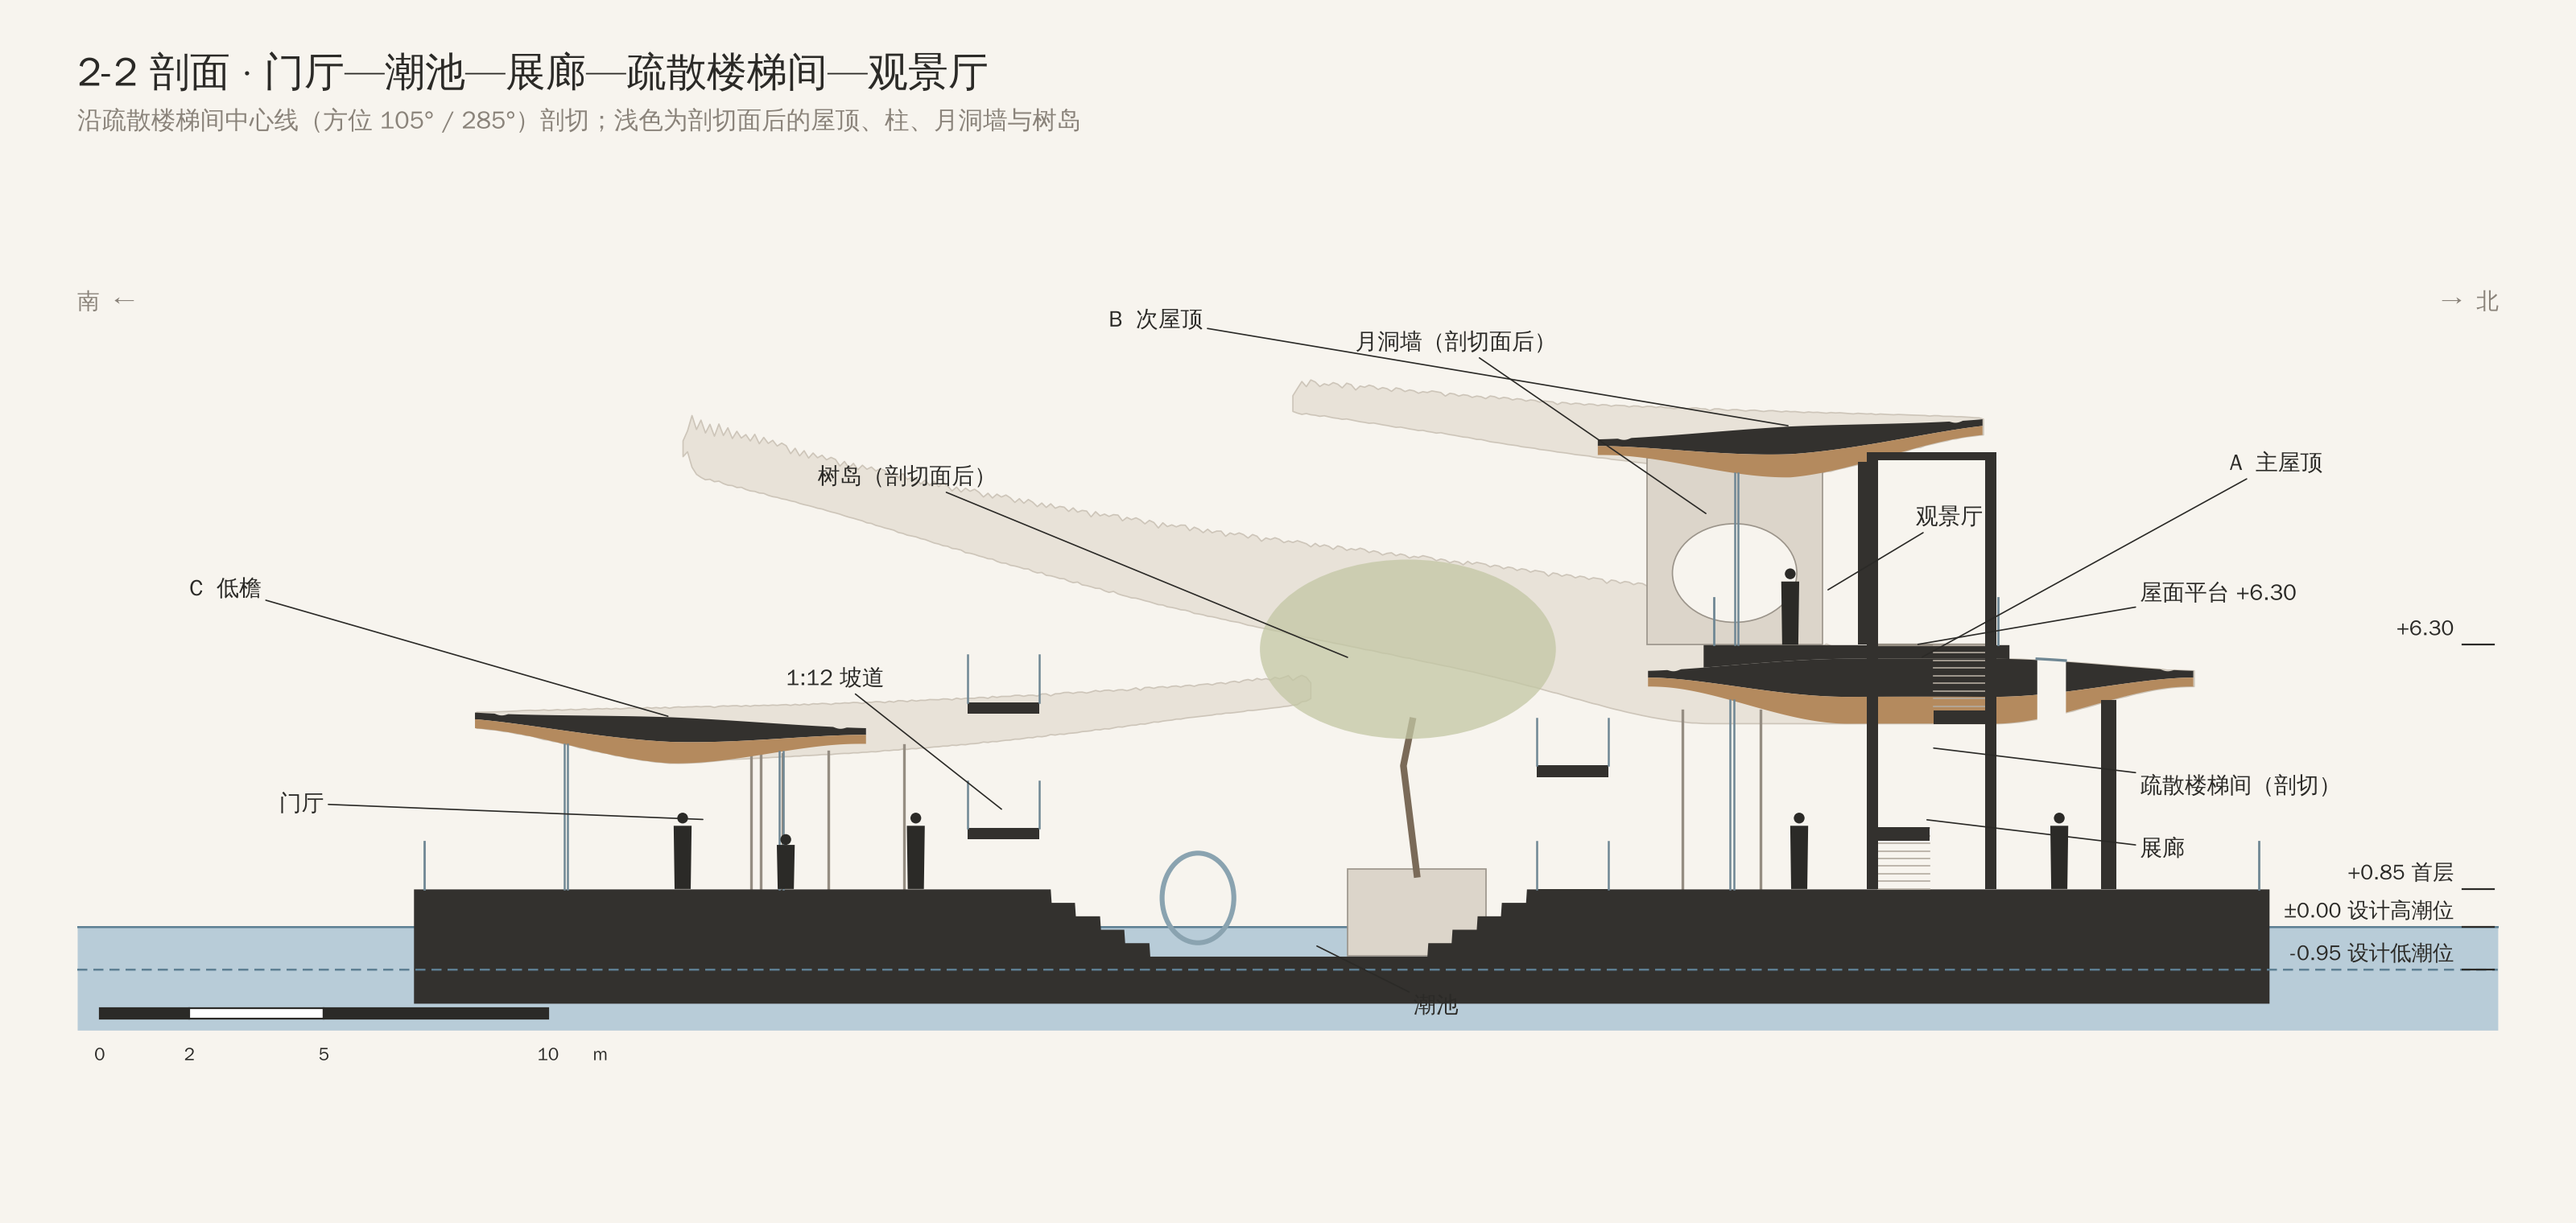
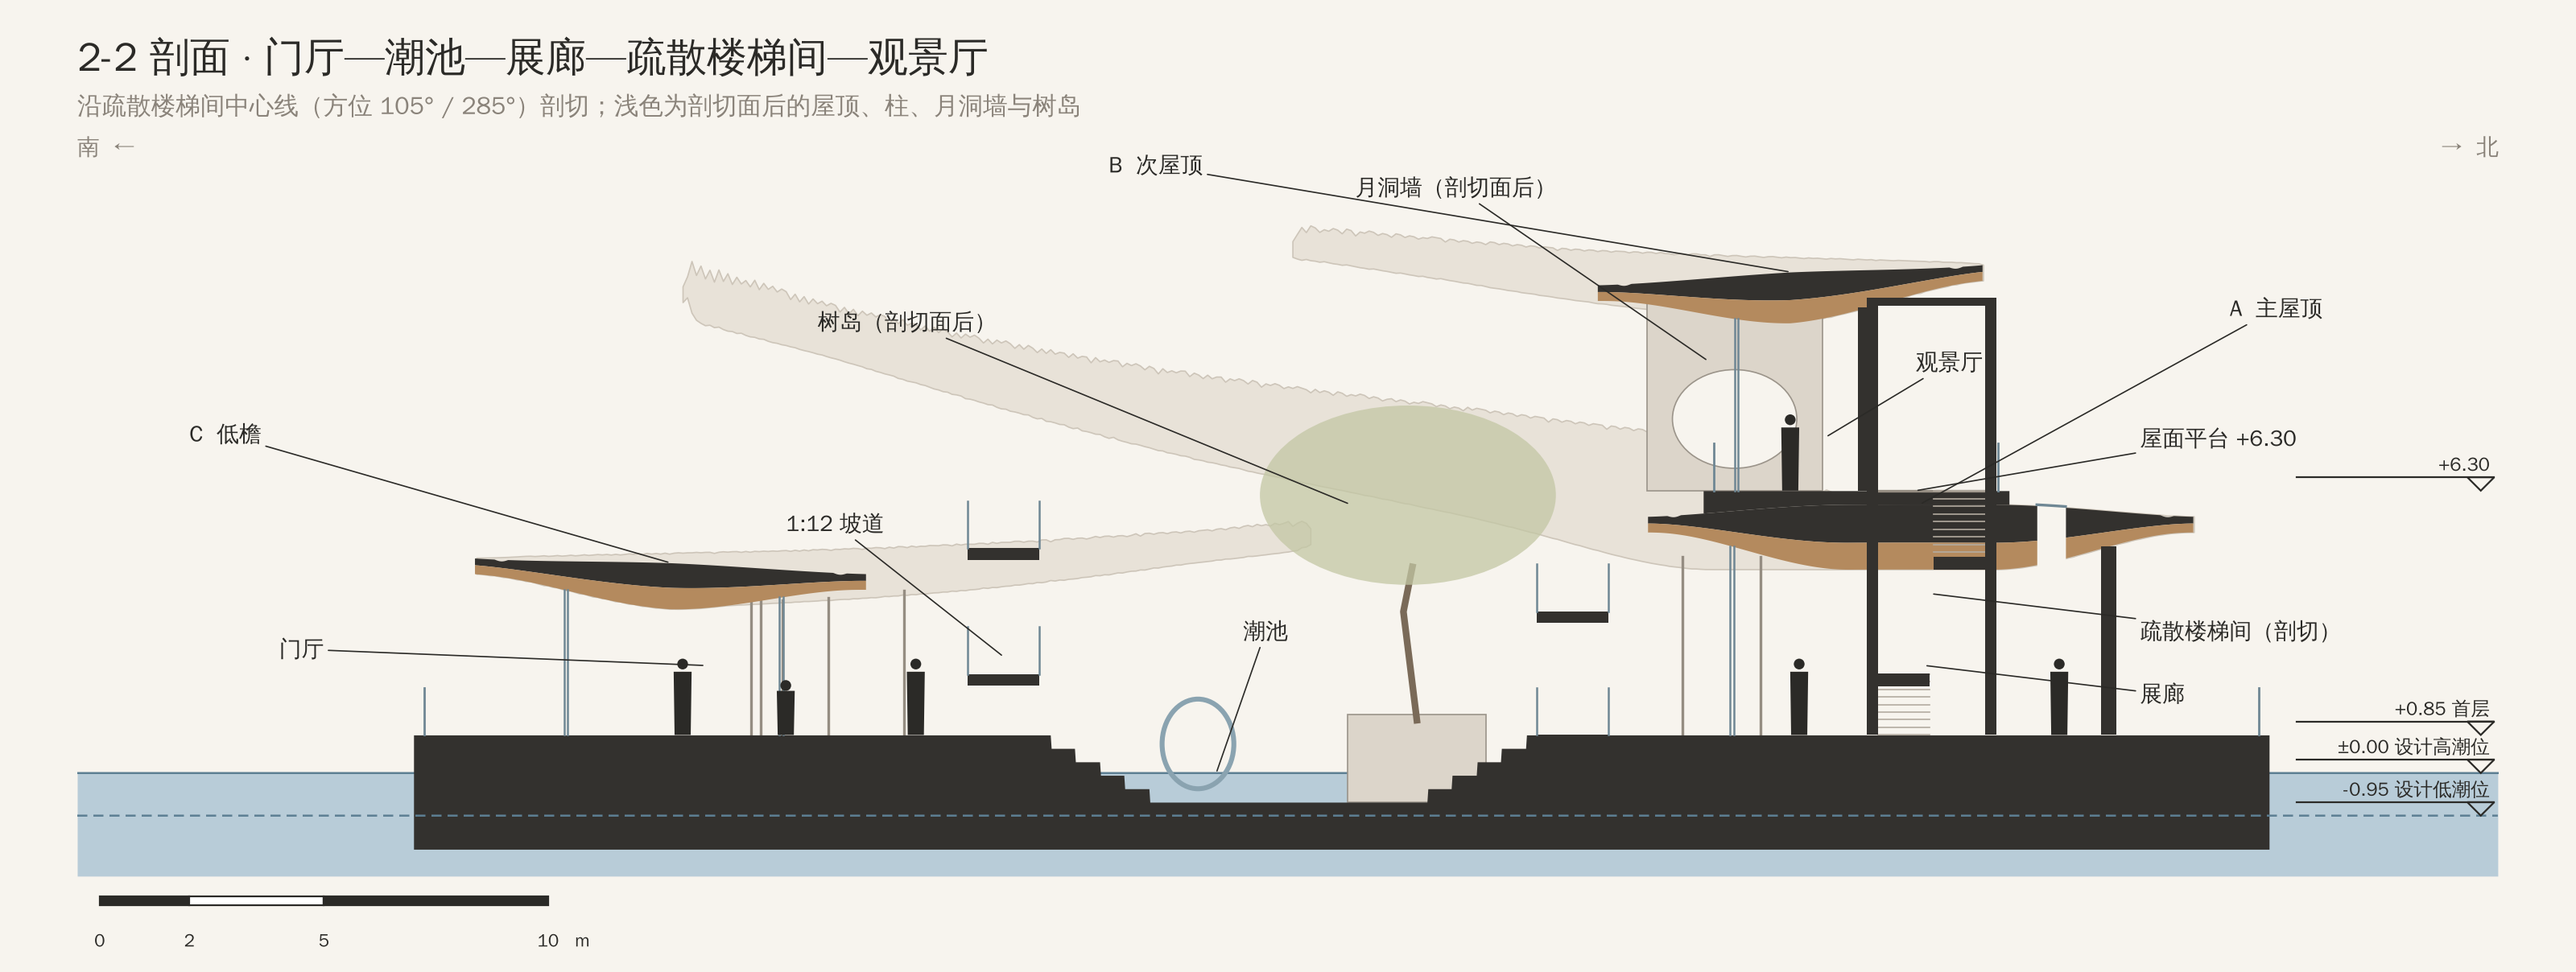
Use one level symbol across sections, detail and elevation
Sections 1-1 and 2-2, the 1:20 detail and the elevation now share the
standard inverted-triangle level mark. Section 2-2 gets a tight title,
a scale bar below the water and a readable pool label; the detail's
scale-bar labels sit right under the bar.

Claude-Session: https://claude.ai/code/session_01MavZJBDwRNtBKewZjMW8H2

diff --git a/cloud-tide-pavilion/src/diagrams.py b/cloud-tide-pavilion/src/diagrams.py
@@ -54,14 +54,26 @@ def line_poly(ax, g, **kw):
         ax.plot(x, y, **kw)
 
 
-def scale_bar(ax, x0, y0, units=(0, 5, 10, 20), h=0.5, label_size=9, unit_gap=1.0):
+def scale_bar(ax, x0, y0, units=(0, 5, 10, 20), h=0.5, label_size=9, unit_gap=1.0, label_gap=0.6):
     for a, b in zip(units[:-1], units[1:]):
         k = units.index(a)
         ax.add_patch(MPoly([(x0 + a, y0), (x0 + b, y0), (x0 + b, y0 + h), (x0 + a, y0 + h)], closed=True,
                            fc=INK if k % 2 == 0 else "white", ec=INK, lw=0.8))
     for u in units:
-        ax.text(x0 + u, y0 - 0.6, f"{u}", ha="center", va="top", fontsize=label_size, color=INK)
-    ax.text(x0 + units[-1] + unit_gap, y0 - 0.6, "m", ha="left", va="top", fontsize=label_size, color=INK)
+        ax.text(x0 + u, y0 - label_gap, f"{u}", ha="center", va="top", fontsize=label_size, color=INK)
+    ax.text(x0 + units[-1] + unit_gap, y0 - label_gap, "m", ha="left", va="top", fontsize=label_size, color=INK)
+
+
+def tight_layout(fig, ax, title, subtitle, head=0.85, foot=0.15, width=16.0):
+    """图高由横向比例决定：标题紧贴图上方，底部只留 foot 英寸（图例等另加）。返回图高（英寸）。"""
+    (x0, x1), (y0, y1) = ax.get_xlim(), ax.get_ylim()
+    hi = width * 0.94 * (y1 - y0) / (x1 - x0)
+    Hf = head + hi + foot
+    fig.set_size_inches(width, Hf)
+    ax.set_position([0.03, foot / Hf, 0.94, hi / Hf])
+    fig.text(0.03, (Hf - 0.36) / Hf, title, fontsize=18, color=INK, va="center")
+    fig.text(0.03, (Hf - 0.66) / Hf, subtitle, fontsize=11, color=MUTED, va="center")
+    return Hf
 
 
 # ======================================================================= 总平面
@@ -441,8 +453,7 @@ def section(path):
     note((float(np.dot(cp, P.AXIS)), 0.3), "水中石墩（投影）", (-23.5, 1.0))
     for z, txt in ((P.DECK, "+6.30"), (P.FFL, "+0.85 首层"), (P.HIGH_TIDE, "±0.00 设计高潮位"),
                    (P.LOW_TIDE, "-0.95 设计低潮位")):
-        ax.plot([33.2, 33.9], [z, z], color=INK, lw=0.8, zorder=9)
-        ax.text(33.0, z + 0.12, txt, fontsize=9.5, color=INK, ha="right", va="bottom", zorder=9)
+        level_mark(ax, 33.8, z, txt, side="left", run=3.8)
     scale_bar(ax, -23.5, -2.05, units=(0, 2, 5, 10), h=0.25, label_size=8)
     ax.text(-24, 13.2, "东北  ←", fontsize=10, color=MUTED)
     ax.text(34, 13.2, "→  西南（冬至日落方向）", fontsize=10, color=MUTED, ha="right")
@@ -657,7 +668,7 @@ def section_cross(path, env=False):
         note((14.0, P.DECK), "屋面平台 +6.30", (19.0, 7.3))
         note((14.2, 2.4), "展廊", (19.0, 1.6))
         note((-13.0, 2.4), "门厅", (-21.5, 2.6), ha="right")
-        note((0.6, -0.4), "潮池", (2.8, -1.9))
+        note((-1.6, 0.0), "潮池", (-1.0, 3.0))
         note((-6.35, 2.6), "1:12 坡道", (-9.0, 5.4), ha="right")
         note((ts - 1.5, 6.0), "树岛（剖切面后）", (-6.5, 9.9), ha="right")
         for name, txt, xyt in (("Roof_B_Upper", "B  次屋顶", (-4.0, 13.4)), ("Roof_A_Main", "A  主屋顶", (21.0, 10.2)),
@@ -667,14 +678,13 @@ def section_cross(path, env=False):
                 i = len(xs_) // 2
                 note((xs_[i], T_[i]), txt, xyt)
         for z, txt in ((P.DECK, "+6.30"), (P.FFL, "+0.85 首层"), (P.HIGH_TIDE, "±0.00 设计高潮位"), (P.LOW_TIDE, "-0.95 设计低潮位")):
-            ax.plot([s1 - 0.8, s1 - 0.1], [z, z], color=INK, lw=0.8, zorder=9)
-            ax.text(s1 - 1.0, z + 0.12, txt, fontsize=9.5, color=INK, ha="right", va="bottom", zorder=9)
-        scale_bar(ax, s0 + 0.5, -2.05, units=(0, 2, 5, 10), h=0.25, label_size=8)
+            level_mark(ax, s1 - 0.4, z, txt, side="left", run=3.8)
+        ax.set_ylim(-3.9, 14.2)
+        scale_bar(ax, s0 + 0.5, -2.95, units=(0, 2, 5, 10), h=0.2, label_size=8, unit_gap=0.6)
         ax.text(s0, 13.8, "南  ←", fontsize=10, color=MUTED)
         ax.text(s1, 13.8, "→  北", fontsize=10, color=MUTED, ha="right")
-        fig.text(0.03, 0.93, "2-2 剖面 · 门厅—潮池—展廊—疏散楼梯间—观景厅", fontsize=18, color=INK)
-        fig.text(0.03, 0.895, "沿疏散楼梯间中心线（方位 105° / 285°）剖切；浅色为剖切面后的屋顶、柱、月洞墙与树岛",
-                 fontsize=11, color=MUTED)
+        tight_layout(fig, ax, "2-2 剖面 · 门厅—潮池—展廊—疏散楼梯间—观景厅",
+                     "沿疏散楼梯间中心线（方位 105° / 285°）剖切；浅色为剖切面后的屋顶、柱、月洞墙与树岛")
     if path is None:
         return fig, ax, info
     fig.savefig(path, facecolor=PAPER)
@@ -829,8 +839,7 @@ def detail_eave(path):
     dim_v(r_g - 0.55, P.FFL, zu(r_g), f"净高 {zu(r_g) - P.FFL:.2f} m")
     dim_v(rb + 0.18, P.FFL, P.FFL + 1.05, "1.05 m")
     for z, txt in ((P.FFL, "+0.85"), (0.0, "±0.00 设计高潮位"), (P.LOW_TIDE, "-0.95 设计低潮位")):
-        ax.plot([x1 - 0.35, x1 - 0.05], [z, z], color=INK, lw=0.8, zorder=8)
-        ax.text(x1 - 0.05, z + 0.05, txt, ha="right", va="bottom", fontsize=8.5, color=INK, zorder=8)
+        level_mark(ax, x1 - 0.08, z, txt, side="left", h=0.055, run=0.62)
     # 编号引线 + 右侧说明
     items = [
         ((r_e - 1.6, zt(r_e - 1.6) - 0.01), "20 厚 GRC 屋面板，象牙白矿物涂层"),
@@ -867,7 +876,7 @@ def detail_eave(path):
         fy = ys[k]
         fig.text(0.70, fy, f"{k + 1:>2}", fontsize=9.5, color=SUN, va="center")
         fig.text(0.725, fy, txt, fontsize=9.5, color=INK, va="center")
-    scale_bar(ax, x0 + 0.1, y0 + 0.18, units=(0, 0.5, 1), h=0.04, label_size=8, unit_gap=0.08)
+    scale_bar(ax, x0 + 0.1, y0 + 0.18, units=(0, 0.5, 1), h=0.04, label_size=8, unit_gap=0.08, label_gap=0.06)
     fig.text(0.04, 0.955, "节点大样 1:20 · 门厅外檐", fontsize=18, color=INK)
     fig.text(0.04, 0.93, "楔形挑檐、阴影缝与檐沟排水；屋面荷载经胶合木主梁 → 钢箱环梁 → 柱；尺寸取自模型（方位 300° 径向剖切）",
              fontsize=10, color=MUTED)
@@ -1082,17 +1091,9 @@ def env_diagram(path, legend=True):
     # 7 西晒：展廊外墙为实墙；观景厅西侧有月洞墙与深挑檐
     tag(info["ms"] - 2.2, P.DECK + 4.6, 7)
     ax.set_ylim(-2.9, 14.2)
-    # 版面：图高由横向比例决定，标题紧贴图上方，图例（可选）在图下方
-    (x0_, x1_), (y0_, y1_) = ax.get_xlim(), ax.get_ylim()
-    wi = 16 * 0.94
-    hi = wi * (y1_ - y0_) / (x1_ - x0_)
-    head, foot = 0.85, (1.25 if legend else 0.2)
-    Hf = head + hi + foot
-    fig.set_size_inches(16, Hf)
-    ax.set_position([0.03, foot / Hf, 0.94, hi / Hf])
-    fig.text(0.03, (Hf - 0.36) / Hf, "环境策略 · 以 2-2 剖面示意", fontsize=18, color=INK, va="center")
-    fig.text(0.03, (Hf - 0.66) / Hf, "北纬 30°：遮阳、通风、湖水源热泵、雨水回用与天光", fontsize=11, color=MUTED,
-             va="center")
+    foot = 1.25 if legend else 0.2                         # 图例在图下方
+    Hf = tight_layout(fig, ax, "环境策略 · 以 2-2 剖面示意", "北纬 30°：遮阳、通风、湖水源热泵、雨水回用与天光",
+                      foot=foot)
     if legend:
         for k, (name, t) in enumerate(ENV_LEGEND):
             fig.text(0.035 + (k // 4) * 0.47, (foot - 0.3 - (k % 4) * 0.25) / Hf, f"{k + 1}  {name}：{t}", fontsize=9.5,
@@ -1129,12 +1130,8 @@ def elevation_drawing(raw, path, notes=ELEV_NOTES):
     img = plt.imread(raw)
     u0, u1, z0, z1 = meta["extent"]
     xa, xb, za, zb = -23.0, 29.0, -4.4, 14.4
-    wi = 16 * 0.94
-    hi = wi * (zb - za) / (xb - xa)
-    head, foot = 0.85, 0.15
-    Hf = head + hi + foot
-    fig = plt.figure(figsize=(16, Hf), dpi=200, facecolor=PAPER)
-    ax = fig.add_axes([0.03, foot / Hf, 0.94, hi / Hf])
+    fig = plt.figure(figsize=(16, 6), dpi=200, facecolor=PAPER)
+    ax = fig.add_axes([0.03, 0.03, 0.94, 0.8])
     ax.set_xlim(xa, xb); ax.set_ylim(za, zb); ax.set_aspect("equal"); ax.axis("off")
     ax.imshow(img, extent=(u0, u1, z0, z1), zorder=3, interpolation="antialiased")
     # 水体在立面前方：设计高潮位以下以半透明浅蓝覆盖，没入水中的台基仍隐约可见
@@ -1162,9 +1159,7 @@ def elevation_drawing(raw, path, notes=ELEV_NOTES):
     scale_bar(ax, xa + 0.6, -3.5, units=(0, 2, 5, 10), h=0.18, label_size=8, unit_gap=0.6)
     ax.text(xa + 0.3, zb - 0.6, "西  ←", fontsize=10, color=MUTED)
     ax.text(27.0, zb - 0.6, "→  东", fontsize=10, color=MUTED, ha="right")
-    fig.text(0.03, (Hf - 0.36) / Hf, "南立面", fontsize=18, color=INK, va="center")
-    fig.text(0.03, (Hf - 0.66) / Hf, "自湖面南侧看向门厅；栈桥在台基南缘外剖切（黑色）；浅蓝为设计高潮位以下的水体",
-             fontsize=11, color=MUTED, va="center")
+    tight_layout(fig, ax, "南立面", "自湖面南侧看向门厅；栈桥在台基南缘外剖切（黑色）；浅蓝为设计高潮位以下的水体")
     fig.savefig(path, facecolor=PAPER)
     plt.close(fig)
 
